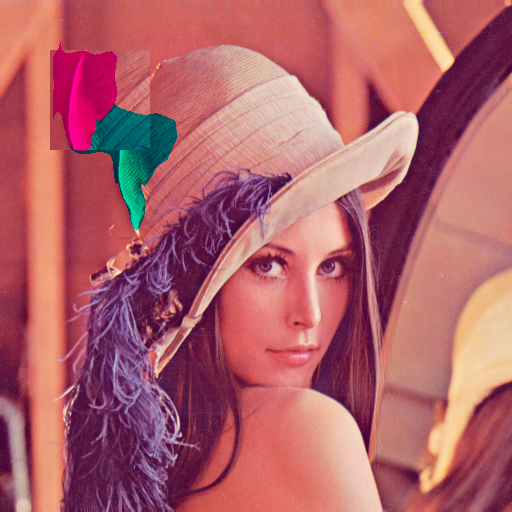
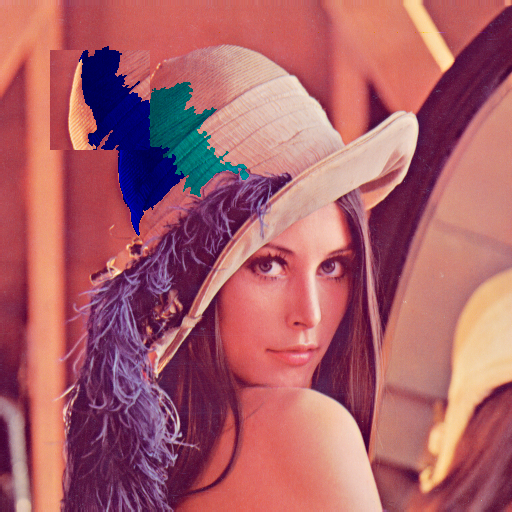
fixing directory problems and improve performance

Changed region(s): [[0.0938, 0.0938, 0.5, 0.4688]]

diff --git a/DIPproject.py b/DIPproject.py
@@ -5,6 +5,7 @@ import matplotlib.pyplot as plt
 from skimage.segmentation import mark_boundaries
 import scipy.spatial.distance
 import os
+import keyboard
 
 
 class Features:
@@ -84,17 +85,33 @@ def drawClonedRegions(image, matchedClusters, segments):
                 for row2, col2 in zip(rows2, cols2):
                     image[row2, col2, 2] = 0 #Making Blue Channel 0 so as to see the color difference
         print('\n')
-    cv2.imshow('Cloning Detection Result', (image))
-    path='C:/Users/User/Desktop/DIP_Final_Project/output'
-    cv2.imwrite(os.path.join(path , 'copyLenna-forged.png'), (image))
-    cv2.waitKey(0)
-    cv2.destroyAllWindows()
+
+    if matchedClusters:
+        print("image is tampered")
+    else:
+        print("image is original")
+
+    while True:
+
+        cv2.imshow('Cloning Detection Result', (image))
+        cv2.waitKey(5000)
+        if keyboard.is_pressed('escape'):
+            cv2.destroyAllWindows()
+            break
+    outputpath = os.path.abspath(os.getcwd()) + "\\" + "output"
+    outputimage = imgname + "-forged" + "." + imgextension
+    cv2.imwrite(os.path.join(outputpath, outputimage), (image))
 
 #Main
-img = imageResize(cv2.imread('C:/Users/User/Desktop/DIP_Final_Project/images/copyLenna.png'))
+
+
+filename = input("Enter the name of image u want to check--->")
+imgname,imgextension = filename.split('.')
+path_image = os.path.abspath(os.getcwd()) + "\\" + "images" + "\\" + filename
+img = imageResize(cv2.imread(path_image))
 
 bgrImage = img[:, :, ::-1]  # convert to bgr
-segmentedData = slic(image=bgrImage, n_segments=100, sigma=5)
+segmentedData = slic(image=bgrImage, n_segments=117, sigma=1, start_label=0)
 
 #plotting
 figure = plt.figure("SLIC Components")
